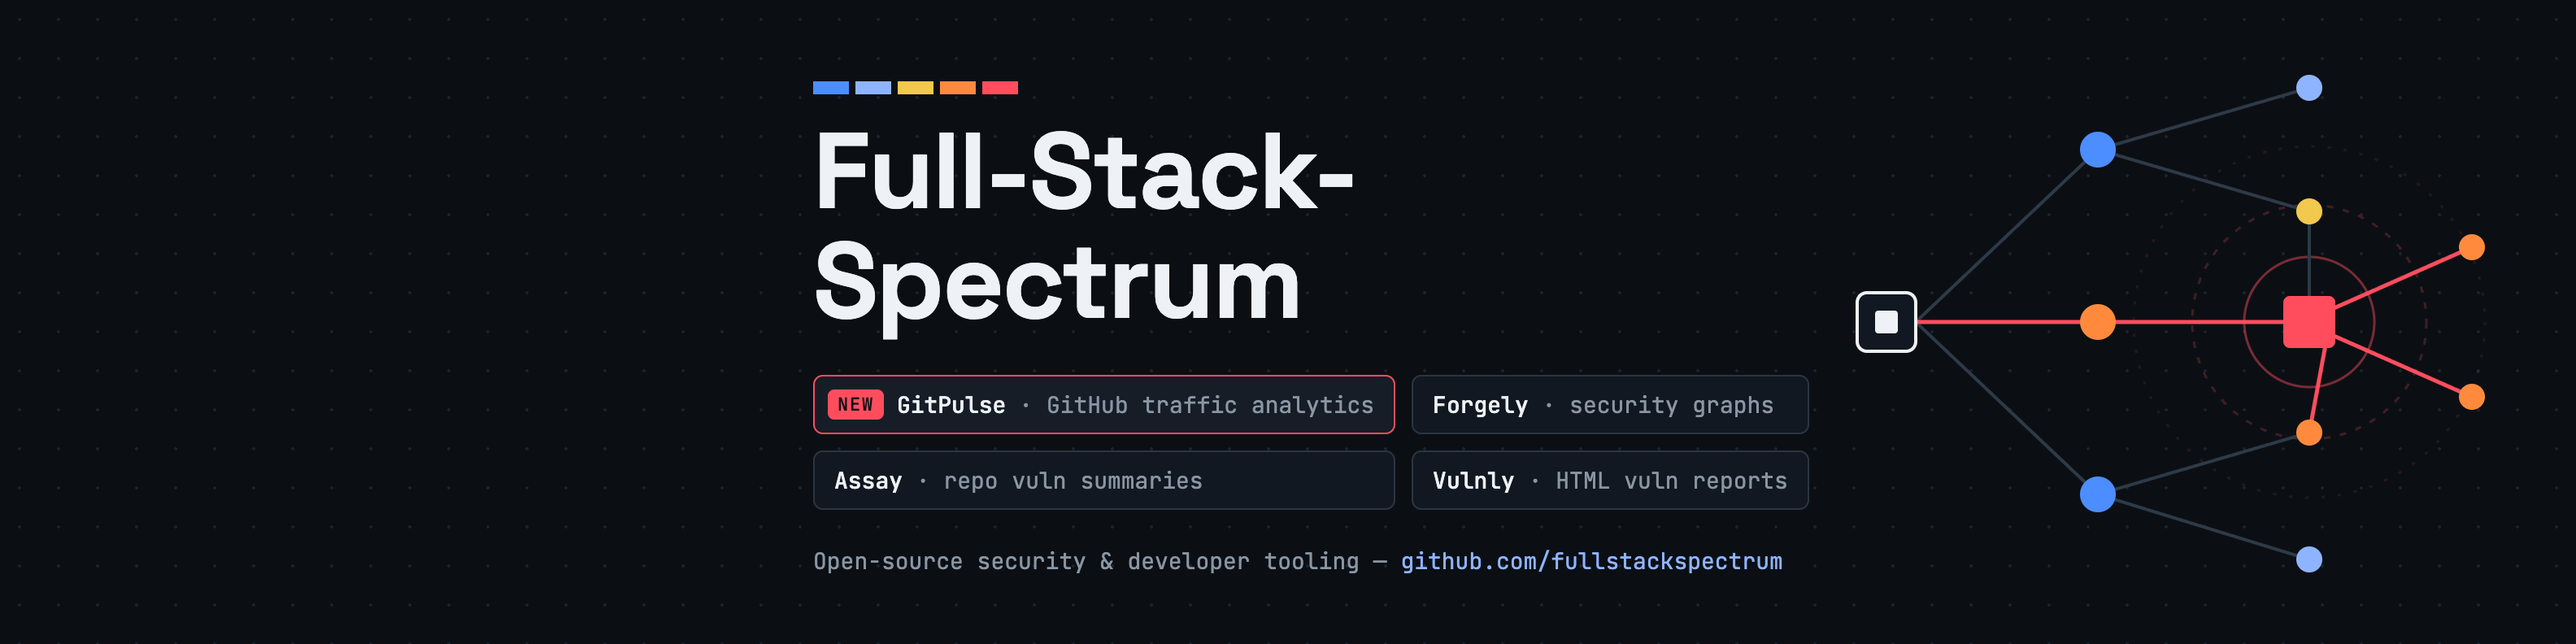
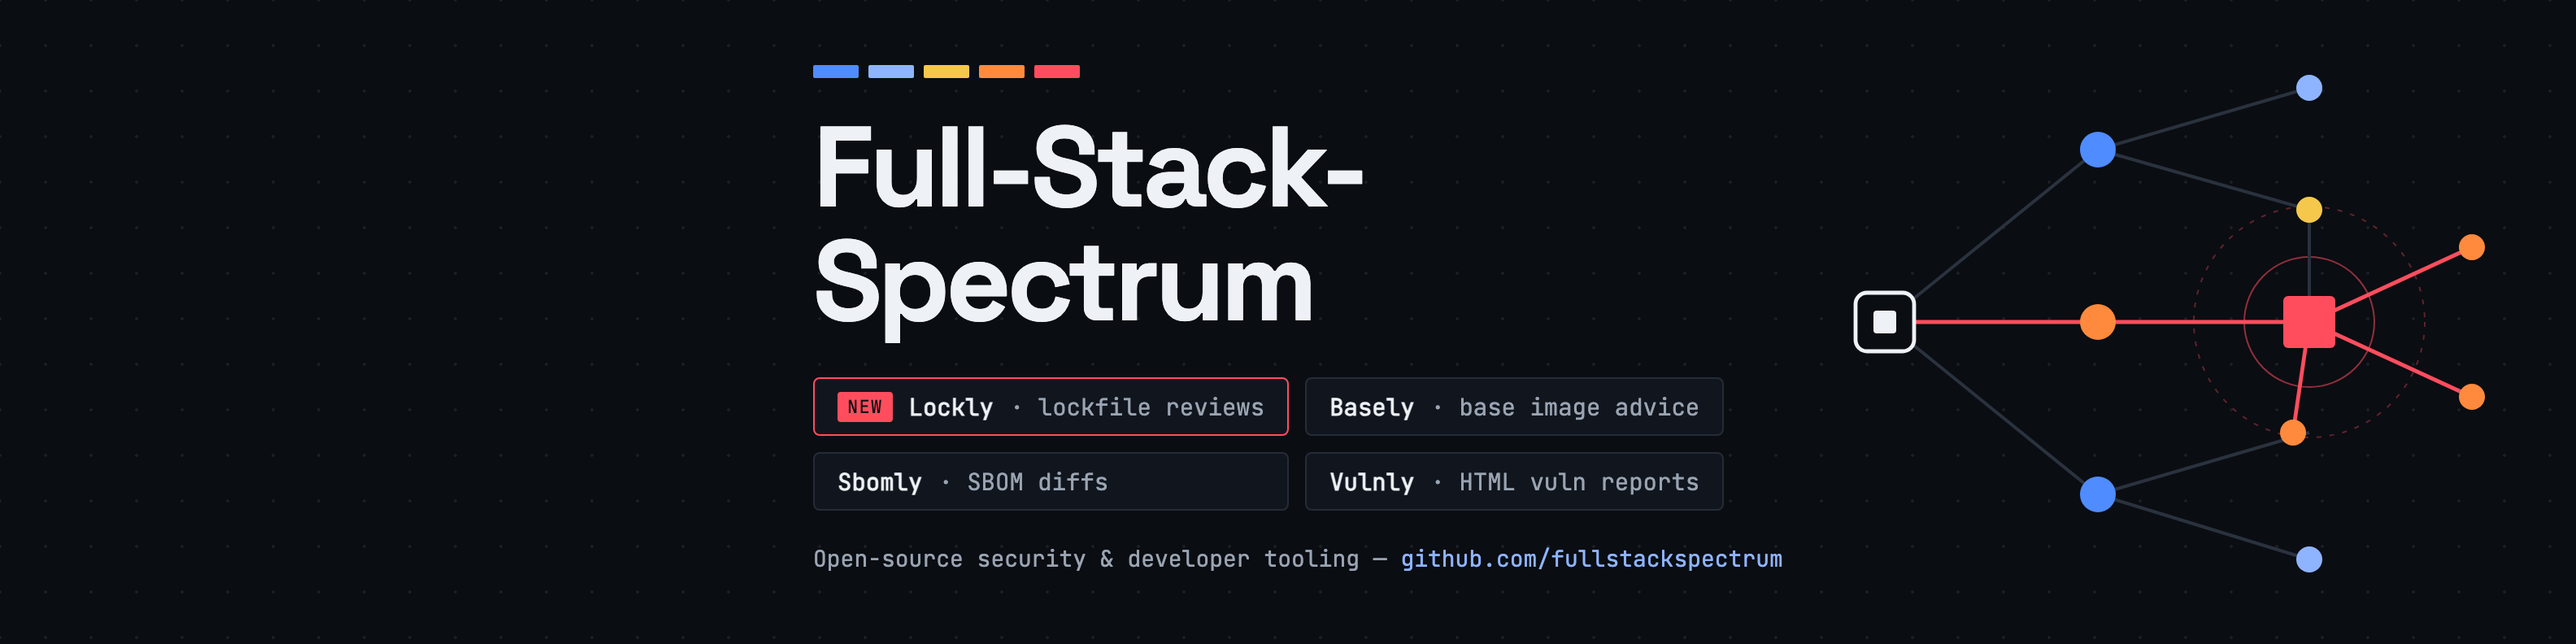
Add Lockly to the site
Lockly takes the featured NEW card from Basely, joins the ticker and meta
description, and the social banner drops GitPulse, Forgely and Assay for
Lockly, Basely, Sbomly and Vulnly.

diff --git a/index.html b/index.html
@@ -4,7 +4,7 @@
   <meta charset="utf-8">
   <meta name="viewport" content="width=device-width, initial-scale=1">
   <title>Full-Stack-Spectrum — Open-source security &amp; developer tooling</title>
-  <meta name="description" content="Full-Stack-Spectrum builds open-source security and developer tooling: Basely, Sbomly, GitPulse, Forgely, Vulnly, Assay and Policy Insights.">
+  <meta name="description" content="Full-Stack-Spectrum builds open-source security and developer tooling: Lockly, Basely, Sbomly, GitPulse, Forgely, Vulnly, Assay and Policy Insights.">
   <meta name="theme-color" content="#0a0d12">
   <link rel="canonical" href="https://fullstackspectrum.com/">
   <link rel="icon" href="/assets/img/favicon.svg" type="image/svg+xml">
@@ -100,8 +100,8 @@
 
   <div class="ticker" aria-hidden="true">
     <div class="ticker-track">
-      <span>CVE triage</span><span>SBOM &amp; SCA</span><span>SBOM diffs</span><span>base image advice</span><span>blast-radius mapping</span><span>offline HTML reports</span><span>GitHub traffic analytics</span><span>policy decision logs</span><span>Trivy · Grype · Snyk</span><span>OSV data</span><span>Docker · Homebrew · PyPI</span>
-      <span>CVE triage</span><span>SBOM &amp; SCA</span><span>SBOM diffs</span><span>base image advice</span><span>blast-radius mapping</span><span>offline HTML reports</span><span>GitHub traffic analytics</span><span>policy decision logs</span><span>Trivy · Grype · Snyk</span><span>OSV data</span><span>Docker · Homebrew · PyPI</span>
+      <span>CVE triage</span><span>SBOM &amp; SCA</span><span>SBOM diffs</span><span>lockfile reviews</span><span>base image advice</span><span>blast-radius mapping</span><span>offline HTML reports</span><span>GitHub traffic analytics</span><span>policy decision logs</span><span>Trivy · Grype · Snyk</span><span>OSV data</span><span>Docker · Homebrew · PyPI</span>
+      <span>CVE triage</span><span>SBOM &amp; SCA</span><span>SBOM diffs</span><span>lockfile reviews</span><span>base image advice</span><span>blast-radius mapping</span><span>offline HTML reports</span><span>GitHub traffic analytics</span><span>policy decision logs</span><span>Trivy · Grype · Snyk</span><span>OSV data</span><span>Docker · Homebrew · PyPI</span>
     </div>
   </div>
 
@@ -124,9 +124,21 @@
 
       <div class="projects">
 
-        <article class="card card--featured reveal" data-tags="security" data-repo="basely">
+        <article class="card card--featured reveal" data-tags="security" data-repo="lockly">
           <div class="card-top">
             <div class="card-tags"><span class="tag tag--new">NEW</span><span class="tag">Python</span><span class="tag">zero deps</span></div>
+            <span class="stars" data-stars></span>
+          </div>
+          <h3><a href="https://github.com/fullstackspectrum/lockly" target="_blank" rel="noopener">Lockly</a></h3>
+          <p class="card-kicker">lockfile reviews</p>
+          <p class="card-desc">Explain lockfile changes and flag what deserves review: install scripts, new publishers, lost provenance, days-old releases and known vulnerabilities. Eight ecosystems, one PR comment.</p>
+          <div class="install"><span class="prompt">$</span><code>pipx install lockly</code><button class="copy" type="button">copy</button></div>
+          <div class="card-links"><a href="https://github.com/fullstackspectrum/lockly" target="_blank" rel="noopener">source ↗</a><a href="https://pypi.org/project/lockly/" target="_blank" rel="noopener">pypi ↗</a><a href="https://hub.docker.com/r/fullstackspectrum/lockly" target="_blank" rel="noopener">docker hub ↗</a></div>
+        </article>
+
+        <article class="card reveal" data-tags="security" data-repo="basely">
+          <div class="card-top">
+            <div class="card-tags"><span class="tag">Python</span><span class="tag">zero deps</span></div>
             <span class="stars" data-stars></span>
           </div>
           <h3><a href="https://github.com/fullstackspectrum/basely" target="_blank" rel="noopener">Basely</a></h3>
